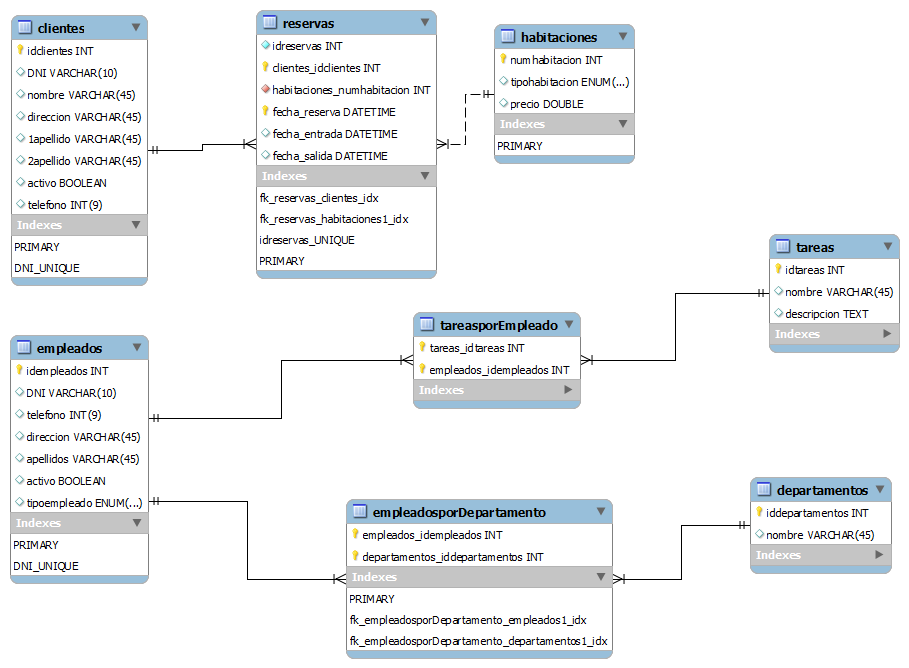
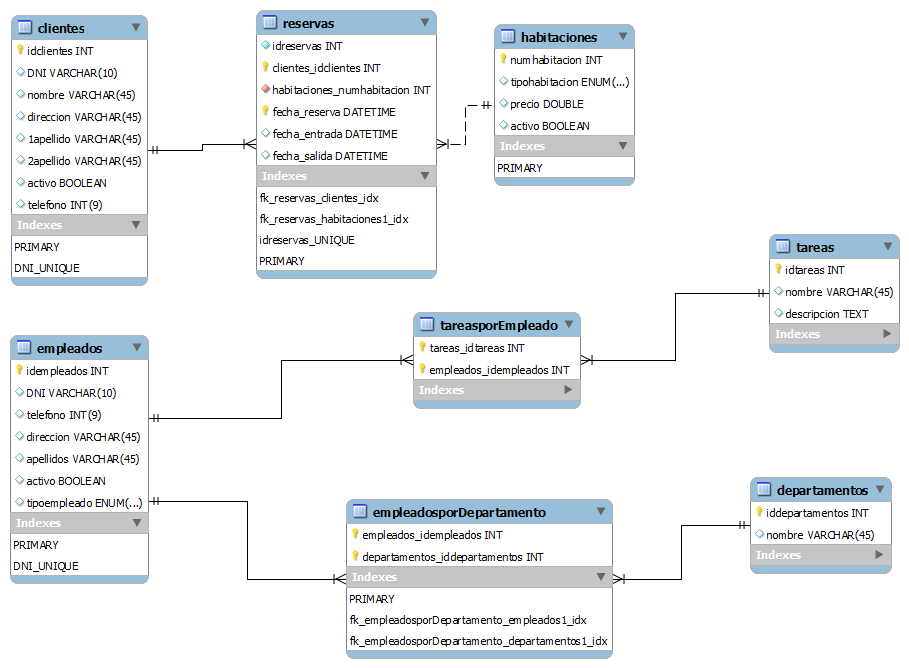
DAOHabitacion falta por funcionar. Cambio en el modelo para reflejar los cambios.

Changed region(s): [[0.5237, 0.1497, 0.7085, 0.2994]]

diff --git a/src/integracion/habitaciones/dao/imp/DAOHabitacionImp.java b/src/integracion/habitaciones/dao/imp/DAOHabitacionImp.java
@@ -36,11 +36,11 @@ public class DAOHabitacionImp implements DAOHabitacion {
 	 *            "UML a Java (com.ibm.xtools.transform.uml2.java5.internal.UML2JavaTransform)"
 	 */
 	
-	private final String addHabitacionQuery = "INSERT INTO habitacones (idhabitacion ,precio ,tipo) VALUES (?, ? , ?)";
-	private final String getHabitacionQuery = "SELECT * FROM habitaciones WHERE idhabitacion = ? AND activo = true FOR UPDATE";
-	private final String deleteHabitacionQuery = "UPDATE habitaciones SET activo = false WHERE idhabitacion = ?";
+	private final String addHabitacionQuery = "INSERT INTO habitaciones (numhabitacion ,precio ,tipohabitacion) VALUES (?, ? , ?)";
+	private final String getHabitacionQuery = "SELECT * FROM habitaciones WHERE numhabitacion = ? FOR UPDATE";
+	private final String deleteHabitacionQuery = "UPDATE habitaciones SET activo = false WHERE numhabitacion = ?";
 	private final String getAllHabitacionesQuery = "SELECT * FROM habitaciones WHERE activo = true FOR UPDATE";
-	private final String updateHabitacionQuery = "UPDATE habitaciones SET ID = ?, precio = ?, tipo = ? WHERE idhabitacion = ?";
+	private final String updateHabitacionQuery = "UPDATE habitaciones SET numhabitacion = ?, precio = ?, tipohabitacion = ? WHERE numhabitacion = ?";
 	
 	public Integer addHabitacion(TransferHabitacion habitacion) {
 
@@ -52,8 +52,8 @@ public class DAOHabitacionImp implements DAOHabitacion {
 		try {
 			PreparedStatement addhabitacion = c.prepareStatement(addHabitacionQuery);
 
-			addhabitacion.setInt(1, habitacion.getID());
-			addhabitacion.setInt(2, habitacion.getPrecio());
+			addhabitacion.setInt(1, habitacion.getNumHabitacion());
+			addhabitacion.setDouble(2, habitacion.getPrecio());
 			
 			if(habitacion instanceof TransferHabitacionNormal)
 				addhabitacion.setString(3, "Normal");
@@ -64,13 +64,13 @@ public class DAOHabitacionImp implements DAOHabitacion {
 
 				PreparedStatement getHabitacionID = c
 						.prepareStatement(getHabitacionQuery);
-				getHabitacionID.setInt(1,habitacion.getID());
+				getHabitacionID.setInt(1,habitacion.getNumHabitacion());
 
 				ResultSet resultado = getHabitacionID.executeQuery();
 
 				if (resultado.next())
 
-					idHabitacion = resultado.getInt("idhabitacion");
+					idHabitacion = resultado.getInt(1);
 			}
 
 		} catch (SQLException e) {
@@ -118,7 +118,7 @@ public class DAOHabitacionImp implements DAOHabitacion {
 				}
 
 
-				habitacion.setID(rowHabitacion.getInt("idhabitacion"));
+				habitacion.setNumHabitacion(rowHabitacion.getInt("idhabitacion"));
 				habitacion.setPrecio(rowHabitacion.getInt("precio"));
 	
 			}
@@ -165,7 +165,7 @@ public class DAOHabitacionImp implements DAOHabitacion {
 					break;
 				}
 
-				habitacion.setID(rowsHabitaciones.getInt("idhabitacion"));
+				habitacion.setNumHabitacion(rowsHabitaciones.getInt("idhabitacion"));
 				habitacion.setPrecio(rowsHabitaciones.getInt("precio"));
 		
 				listaHabitaciones.add(habitacion);
@@ -197,12 +197,12 @@ public class DAOHabitacionImp implements DAOHabitacion {
 
 			PreparedStatement preparedStatement = connection
 					.prepareStatement(updateHabitacionQuery);
-			preparedStatement.setInt(1, habitacion.getID());
-			preparedStatement.setInt(2, habitacion.getPrecio());
+			preparedStatement.setInt(1, habitacion.getNumHabitacion());
+			preparedStatement.setDouble(2, habitacion.getPrecio());
 			if(habitacion instanceof TransferHabitacionNormal)
 				preparedStatement.setString(3, "Normal");
 			else preparedStatement.setString(3, "Suite");
-			preparedStatement.setInt(4, habitacion.getID());
+			preparedStatement.setInt(4, habitacion.getNumHabitacion());
 
 			correcto = (preparedStatement.executeUpdate() == 1);
 			// }

diff --git a/tests/src/test/integracion/dao/TestDAOHabitaciones.java b/tests/src/test/integracion/dao/TestDAOHabitaciones.java
@@ -1,0 +1,137 @@
+package test.integracion.dao;
+
+import static org.junit.Assert.assertNotNull;
+import static org.junit.Assert.assertTrue;
+import integracion.clientes.dao.DAOCliente;
+import integracion.clientes.dao.imp.DAOClienteImp;
+import integracion.habitaciones.dao.DAOHabitacion;
+import integracion.habitaciones.dao.imp.DAOHabitacionImp;
+import integracion.transacciones.transaction.Transaction;
+import integracion.transacciones.transactionManager.TransactionManager;
+
+import java.util.Random;
+
+import negocio.clientes.transfer.TransferCliente;
+import negocio.habitaciones.transfer.TransferHabitacion;
+
+import org.junit.After;
+import org.junit.Before;
+import org.junit.FixMethodOrder;
+import org.junit.Test;
+import org.junit.runner.RunWith;
+import org.junit.runners.JUnit4;
+
+@RunWith(JUnit4.class)
+@FixMethodOrder
+public class TestDAOHabitaciones {
+
+	private int numhab;
+	private double precio;
+	
+	@Before
+	public void configureTransaction() {
+		
+		TransactionManager tm = TransactionManager.getInstance();
+		
+		Transaction transaction = tm.nuevaTransaccion();
+		
+		transaction.start();
+	}
+	
+	@Test
+	public void anadirHabitacion() {
+
+		Integer id = obtenerIdHabitacion();
+		
+		assertNotNull(id);
+		assertTrue(id>=0);
+		
+		
+		commit();
+	}
+
+	@Test
+	public void obtenerHabitacion() {
+		
+		DAOHabitacion dao = new DAOHabitacionImp();
+
+
+
+		Integer id = obtenerIdHabitacion();
+
+		assertNotNull(id);
+		assertTrue(id>=0);
+
+		TransferHabitacion hab = dao.getHabitacion(id);
+		
+		assertNotNull(hab);
+		assertTrue(hab.getNumHabitacion()==numhab);
+		assertTrue(hab.getPrecio()==precio);
+	
+		
+		commit();
+		
+	}
+
+	@Test
+	public void modificaHabitacion() {
+
+		
+	}
+
+	@Test
+	public void borrarHabitacion() {
+
+	
+
+		
+
+	}
+
+	private Integer obtenerIdHabitacion() {
+
+	
+		DAOHabitacion dao = new DAOHabitacionImp();
+
+		TransferHabitacion hab = crearHabitacion();
+
+		hab.setNumHabitacion((dao.addHabitacion(hab)));
+
+		commit();
+
+		return hab.getNumHabitacion();
+		
+	}
+
+	private TransferHabitacion crearHabitacion() {
+
+		TransferHabitacion c = new TransferHabitacion();
+
+		numhab = new Random().nextInt(99999);
+		precio = new Random().nextDouble();
+		c.setNumHabitacion(numhab);
+		c.setPrecio(precio);
+
+		return c;
+	}
+	
+	private void commit() {
+
+		TransactionManager tm = TransactionManager.getInstance();
+
+		
+		Transaction transaction = tm.getTransaccion();
+		
+		transaction.commit();
+	}
+	
+	@After
+	public void closeConnection() {
+		
+		TransactionManager tm = TransactionManager.getInstance();
+		tm.eliminaTransaccion();
+		
+	
+	}
+	
+}

diff --git a/src/negocio/habitaciones/transfer/TransferHabitacion.java b/src/negocio/habitaciones/transfer/TransferHabitacion.java
@@ -14,28 +14,28 @@ public class TransferHabitacion {
 	 * @generated 
 	 *            "UML a Java (com.ibm.xtools.transform.uml2.java5.internal.UML2JavaTransform)"
 	 */
-	private Integer ID;
+	private Integer num_habitacion;
 
 	/**
-	 * @return el ID
+	 * @return el num_habitacion
 	 * @generated 
 	 *            "UML a Java (com.ibm.xtools.transform.uml2.java5.internal.UML2JavaTransform)"
 	 */
-	public Integer getID() {
+	public Integer getNumHabitacion() {
 		// begin-user-code
-		return ID;
+		return num_habitacion;
 		// end-user-code
 	}
 
 	/**
-	 * @param ID
-	 *            el ID a establecer
+	 * @param num_habitacion
+	 *            el num_habitacion a establecer
 	 * @generated 
 	 *            "UML a Java (com.ibm.xtools.transform.uml2.java5.internal.UML2JavaTransform)"
 	 */
-	public void setID(Integer ID) {
+	public void setNumHabitacion(Integer ID) {
 		// begin-user-code
-		this.ID = ID;
+		this.num_habitacion = ID;
 		// end-user-code
 	}
 
@@ -45,14 +45,14 @@ public class TransferHabitacion {
 	 * @generated 
 	 *            "UML a Java (com.ibm.xtools.transform.uml2.java5.internal.UML2JavaTransform)"
 	 */
-	private Integer precio;
+	private double precio;
 
 	/**
 	 * @return el precio
 	 * @generated 
 	 *            "UML a Java (com.ibm.xtools.transform.uml2.java5.internal.UML2JavaTransform)"
 	 */
-	public Integer getPrecio() {
+	public double getPrecio() {
 		// begin-user-code
 		return precio;
 		// end-user-code
@@ -64,7 +64,7 @@ public class TransferHabitacion {
 	 * @generated 
 	 *            "UML a Java (com.ibm.xtools.transform.uml2.java5.internal.UML2JavaTransform)"
 	 */
-	public void setPrecio(Integer precio) {
+	public void setPrecio(double precio) {
 		// begin-user-code
 		this.precio = precio;
 		// end-user-code

diff --git a/src/negocio/habitaciones/transfer/TransferHabitacionNormal.java b/src/negocio/habitaciones/transfer/TransferHabitacionNormal.java
@@ -24,7 +24,7 @@ public class TransferHabitacionNormal extends TransferHabitacion{
 	 * @generated 
 	 *            "UML a Java (com.ibm.xtools.transform.uml2.java5.internal.UML2JavaTransform)"
 	 */
-	public Integer getID() {
+	public Integer getNumHabitacion() {
 		// begin-user-code
 		return ID;
 		// end-user-code
@@ -36,7 +36,7 @@ public class TransferHabitacionNormal extends TransferHabitacion{
 	 * @generated 
 	 *            "UML a Java (com.ibm.xtools.transform.uml2.java5.internal.UML2JavaTransform)"
 	 */
-	public void setID(Integer ID) {
+	public void setNumHabitacion(Integer ID) {
 		// begin-user-code
 		this.ID = ID;
 		// end-user-code
@@ -48,14 +48,14 @@ public class TransferHabitacionNormal extends TransferHabitacion{
 	 * @generated 
 	 *            "UML a Java (com.ibm.xtools.transform.uml2.java5.internal.UML2JavaTransform)"
 	 */
-	private Integer precio;
+	private double precio;
 
 	/**
 	 * @return el precio
 	 * @generated 
 	 *            "UML a Java (com.ibm.xtools.transform.uml2.java5.internal.UML2JavaTransform)"
 	 */
-	public Integer getPrecio() {
+	public double getPrecio() {
 		// begin-user-code
 		return precio;
 		// end-user-code

diff --git a/src/negocio/habitaciones/transfer/TransferHabitacionSuite.java b/src/negocio/habitaciones/transfer/TransferHabitacionSuite.java
@@ -24,7 +24,7 @@ public class TransferHabitacionSuite extends TransferHabitacion{
 	 * @generated 
 	 *            "UML a Java (com.ibm.xtools.transform.uml2.java5.internal.UML2JavaTransform)"
 	 */
-	public Integer getID() {
+	public Integer getNumHabitacion() {
 		// begin-user-code
 		return ID;
 		// end-user-code
@@ -36,7 +36,7 @@ public class TransferHabitacionSuite extends TransferHabitacion{
 	 * @generated 
 	 *            "UML a Java (com.ibm.xtools.transform.uml2.java5.internal.UML2JavaTransform)"
 	 */
-	public void setID(Integer ID) {
+	public void setNumHabitacion(Integer ID) {
 		// begin-user-code
 		this.ID = ID;
 		// end-user-code
@@ -55,7 +55,7 @@ public class TransferHabitacionSuite extends TransferHabitacion{
 	 * @generated 
 	 *            "UML a Java (com.ibm.xtools.transform.uml2.java5.internal.UML2JavaTransform)"
 	 */
-	public Integer getPrecio() {
+	public double getPrecio() {
 		// begin-user-code
 		return precio;
 		// end-user-code

diff --git a/tests/src/test/integracion/TestsIntegracionSuite.java b/tests/src/test/integracion/TestsIntegracionSuite.java
@@ -5,10 +5,11 @@ import org.junit.runners.Suite;
 import org.junit.runners.Suite.SuiteClasses;
 
 import test.integracion.dao.TestDAOCliente;
+import test.integracion.dao.TestDAOHabitaciones;
 import test.integracion.dao.TestDAOReservas;
 
 @RunWith(Suite.class)
-@SuiteClasses({ TestDAOCliente.class , TestDAOReservas.class  })
+@SuiteClasses({ TestDAOCliente.class , TestDAOReservas.class  , TestDAOHabitaciones.class })
 
 public class TestsIntegracionSuite {
 
